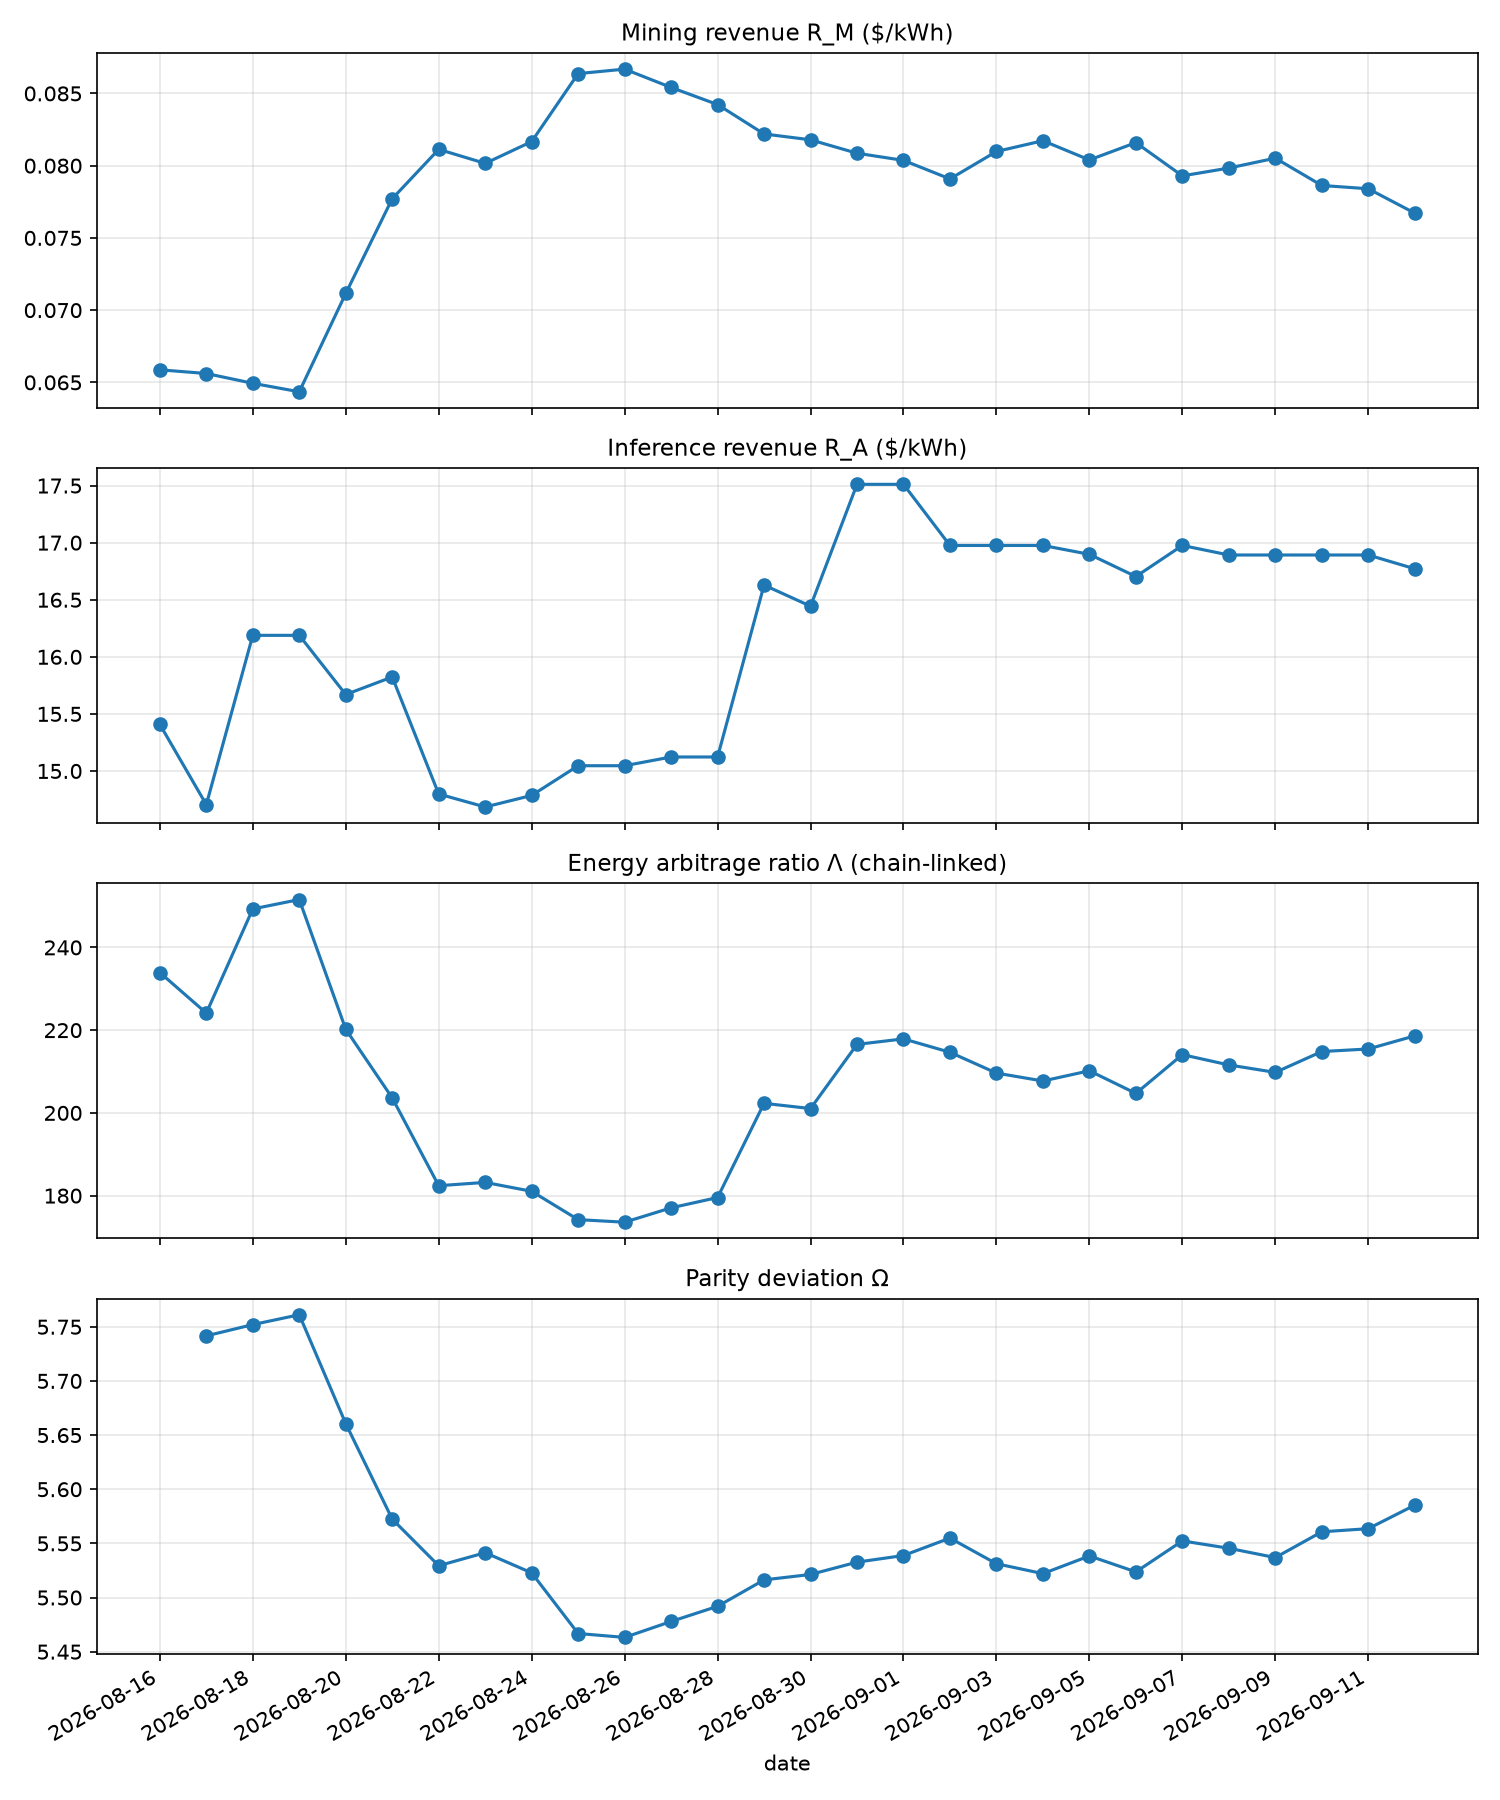
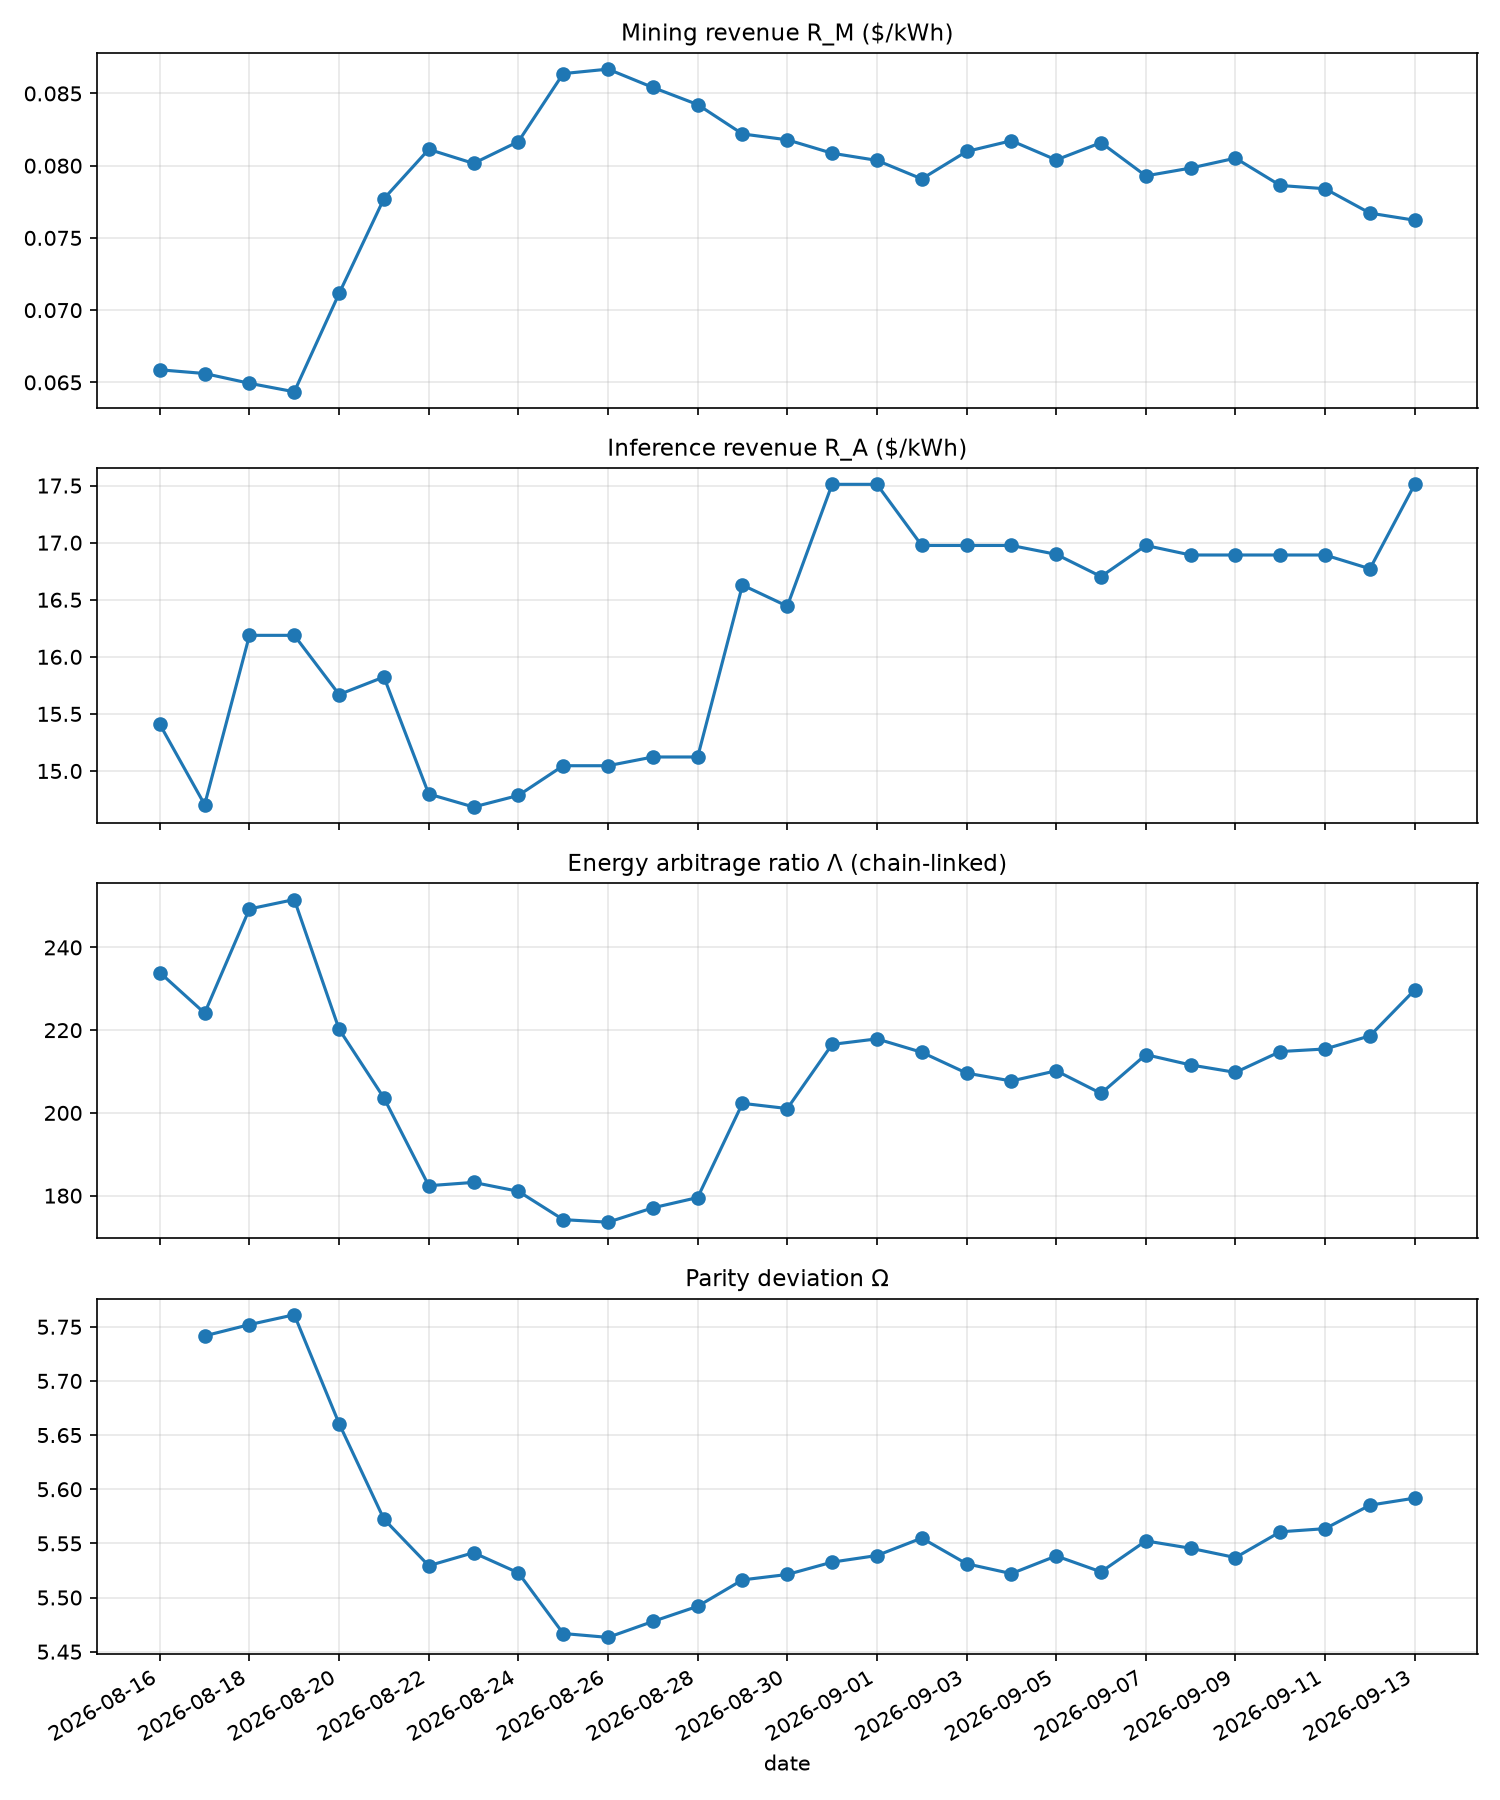
daily update 2026-09-13

diff --git a/docs/index.html b/docs/index.html
@@ -96,7 +96,7 @@ footer a { color: var(--faint); }
   <div class="eyebrow">Abundantics · 丰裕学 / 实证模块 01</div>
   <h1>Token 能量平价指数</h1>
   <p class="sub">同一焦耳，两种耗散：AI 推理 token 与 PoW 加密货币折算到同一物理公分母（每千瓦时收入）后的日频指数族。</p>
-  <div class="stamp">最近更新 2026-09-12 · 数据源 CoinGecko / mempool.space / OpenRouter · 自动更新</div>
+  <div class="stamp">最近更新 2026-09-13 · 数据源 CoinGecko / mempool.space / OpenRouter · 自动更新</div>
 </header>
 
 <div class="kwh">
@@ -107,21 +107,21 @@ footer a { color: var(--faint); }
     <div class="tick" style="left:33.3%"><span>$0.10</span></div>
     <div class="tick" style="left:66.7%"><span>$1</span></div>
     <div class="tick" style="left:98.0%"><span>$10</span></div>
-    <div class="pin mine" style="left:29.5%"><b>挖矿 $0.077</b></div>
-    <div class="pin infer" style="left:98.0%"><b>推理 $16.77</b></div>
+    <div class="pin mine" style="left:29.4%"><b>挖矿 $0.076</b></div>
+    <div class="pin infer" style="left:98.0%"><b>推理 $17.51</b></div>
   </div>
-  <div class="verdict">当前能量套利比 <strong>Λ = 218.6</strong>：一度电喂给推理的毛收入是喂给挖矿的 219 倍（毛收入口径，未扣 GPU 折旧等非电成本）。</div>
+  <div class="verdict">当前能量套利比 <strong>Λ = 229.7</strong>：一度电喂给推理的毛收入是喂给挖矿的 230 倍（毛收入口径，未扣 GPU 折旧等非电成本）。</div>
 </div>
 
 <div class="cards">
   <div class="card"><div class="k">R_M · 挖矿每度电毛收入</div>
-    <div class="v copper">$0.0767</div><div class="d">美元/kWh，由链上数据自算 hashprice ÷ 全网加权能耗</div></div>
+    <div class="v copper">$0.0762</div><div class="d">美元/kWh，由链上数据自算 hashprice ÷ 全网加权能耗</div></div>
   <div class="card"><div class="k">R_A · 推理每度电毛收入</div>
-    <div class="v cobalt">$16.77</div><div class="d">美元/kWh，用量加权模型篮子，标准 token 当量</div></div>
+    <div class="v cobalt">$17.51</div><div class="d">美元/kWh，用量加权模型篮子，标准 token 当量</div></div>
   <div class="card"><div class="k">Λ · 能量套利比</div>
-    <div class="v graphite">218.6</div><div class="d">R_A / R_M，毛收入口径 · 链式接续序列 · chain-linked</div></div>
+    <div class="v graphite">229.7</div><div class="d">R_A / R_M，毛收入口径 · 链式接续序列 · chain-linked</div></div>
   <div class="card"><div class="k">Ω · 平价偏离指数</div>
-    <div class="v oxblood">5.585</div><div class="d">ln(焦耳平价汇率 / 市场隐含汇率)，防御性 vs 生产性耗散的定价缺口</div></div>
+    <div class="v oxblood">5.592</div><div class="d">ln(焦耳平价汇率 / 市场隐含汇率)，防御性 vs 生产性耗散的定价缺口</div></div>
 </div>
 
 <section class="charts">
@@ -158,7 +158,7 @@ footer a { color: var(--faint); }
 </footer>
 </div>
 
-<script>window.__PARITY__ = {"dates": ["2026-08-16", "2026-08-17", "2026-08-18", "2026-08-19", "2026-08-20", "2026-08-21", "2026-08-22", "2026-08-23", "2026-08-24", "2026-08-25", "2026-08-26", "2026-08-27", "2026-08-28", "2026-08-29", "2026-08-30", "2026-08-31", "2026-09-01", "2026-09-02", "2026-09-03", "2026-09-04", "2026-09-05", "2026-09-06", "2026-09-07", "2026-09-08", "2026-09-09", "2026-09-10", "2026-09-11", "2026-09-12"], "series": {"R_M": [0.06587, 0.065614, 0.064936, 0.064349, 0.071155, 0.077712, 0.081129, 0.080158, 0.081666, 0.086372, 0.086682, 0.085415, 0.08423, 0.082195, 0.08179, 0.080861, 0.080366, 0.079084, 0.080982, 0.081726, 0.080397, 0.081594, 0.079294, 0.079835, 0.08052, 0.078629, 0.078402, 0.076715], "R_A": [15.4088, 14.7051, 16.1883, 16.1883, 15.6699, 15.8235, 14.7983, 14.6847, 14.7859, 15.0462, 15.0462, 15.1227, 15.1227, 16.6286, 16.4437, 17.511, 17.511, 16.9756, 16.9756, 16.9756, 16.8979, 16.7033, 16.9756, 16.892, 16.892, 16.892, 16.892, 16.7713], "Lambda": [233.93, 224.12, 249.3, 251.57, 220.22, 203.62, 182.4, 183.2, 181.05, 174.2, 173.58, 177.05, 179.54, 202.31, 201.05, 216.56, 217.89, 214.65, 209.62, 207.71, 210.18, 204.71, 214.08, 211.59, 209.79, 214.83, 215.45, 218.62], "Omega": [null, 5.7416, 5.752, 5.7611, 5.6606, 5.5724, 5.5294, 5.5414, 5.5228, 5.4668, 5.4632, 5.4779, 5.4919, 5.5163, 5.5213, 5.5327, 5.5388, 5.5549, 5.5312, 5.5221, 5.5384, 5.5237, 5.5523, 5.5455, 5.5369, 5.5607, 5.5636, 5.5853]}};</script>
+<script>window.__PARITY__ = {"dates": ["2026-08-16", "2026-08-17", "2026-08-18", "2026-08-19", "2026-08-20", "2026-08-21", "2026-08-22", "2026-08-23", "2026-08-24", "2026-08-25", "2026-08-26", "2026-08-27", "2026-08-28", "2026-08-29", "2026-08-30", "2026-08-31", "2026-09-01", "2026-09-02", "2026-09-03", "2026-09-04", "2026-09-05", "2026-09-06", "2026-09-07", "2026-09-08", "2026-09-09", "2026-09-10", "2026-09-11", "2026-09-12", "2026-09-13"], "series": {"R_M": [0.06587, 0.065614, 0.064936, 0.064349, 0.071155, 0.077712, 0.081129, 0.080158, 0.081666, 0.086372, 0.086682, 0.085415, 0.08423, 0.082195, 0.08179, 0.080861, 0.080366, 0.079084, 0.080982, 0.081726, 0.080397, 0.081594, 0.079294, 0.079835, 0.08052, 0.078629, 0.078402, 0.076715, 0.076223], "R_A": [15.4088, 14.7051, 16.1883, 16.1883, 15.6699, 15.8235, 14.7983, 14.6847, 14.7859, 15.0462, 15.0462, 15.1227, 15.1227, 16.6286, 16.4437, 17.511, 17.511, 16.9756, 16.9756, 16.9756, 16.8979, 16.7033, 16.9756, 16.892, 16.892, 16.892, 16.892, 16.7713, 17.511], "Lambda": [233.93, 224.12, 249.3, 251.57, 220.22, 203.62, 182.4, 183.2, 181.05, 174.2, 173.58, 177.05, 179.54, 202.31, 201.05, 216.56, 217.89, 214.65, 209.62, 207.71, 210.18, 204.71, 214.08, 211.59, 209.79, 214.83, 215.45, 218.62, 229.73], "Omega": [null, 5.7416, 5.752, 5.7611, 5.6606, 5.5724, 5.5294, 5.5414, 5.5228, 5.4668, 5.4632, 5.4779, 5.4919, 5.5163, 5.5213, 5.5327, 5.5388, 5.5549, 5.5312, 5.5221, 5.5384, 5.5237, 5.5523, 5.5455, 5.5369, 5.5607, 5.5636, 5.5853, 5.5918]}};</script>
 <script src="https://cdnjs.cloudflare.com/ajax/libs/Chart.js/4.4.1/chart.umd.min.js"
         onerror="document.getElementById('jscharts').style.display='none';document.getElementById('pngfallback').style.display='block';"></script>
 <script>
